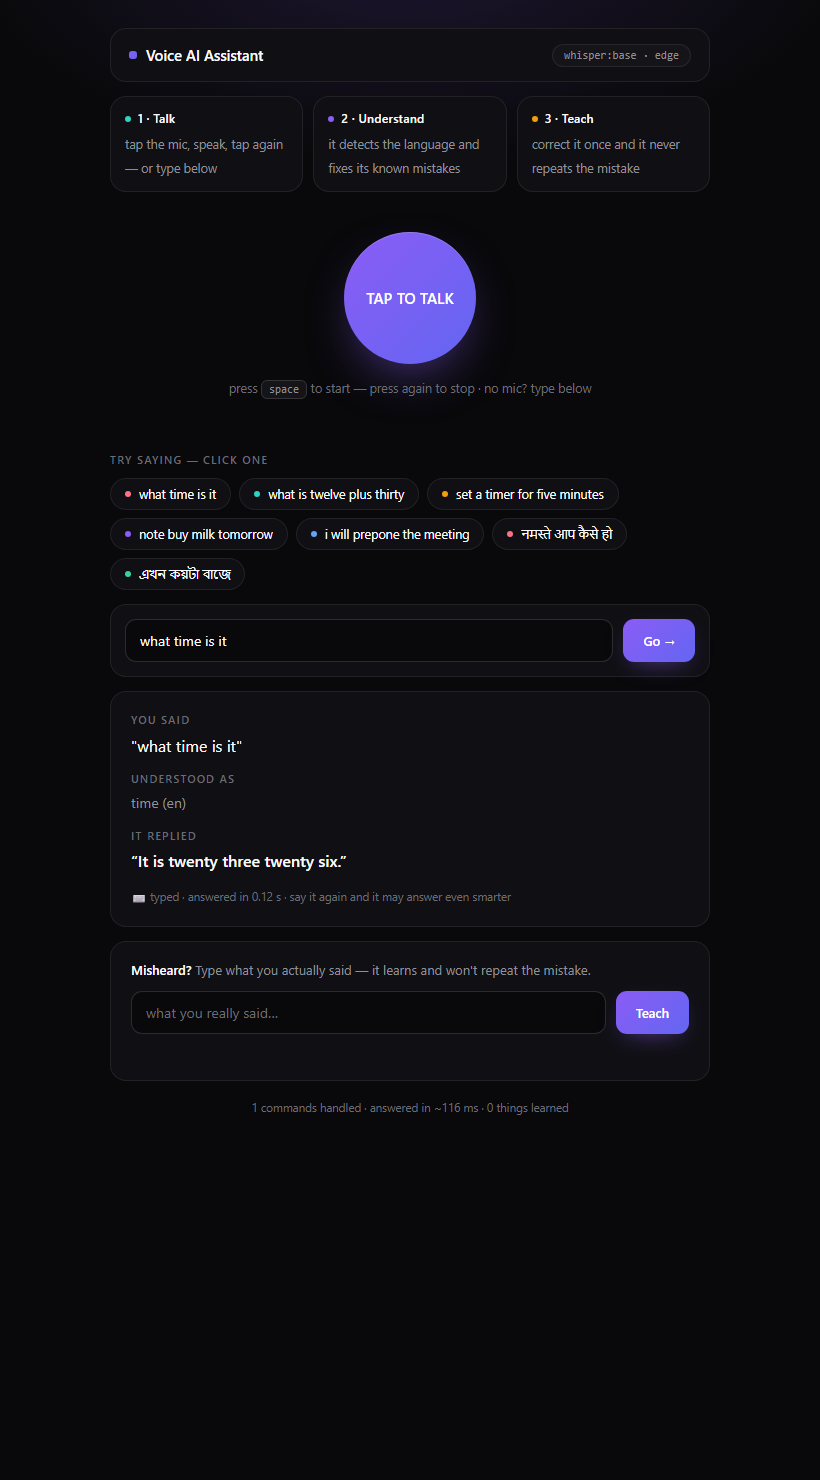
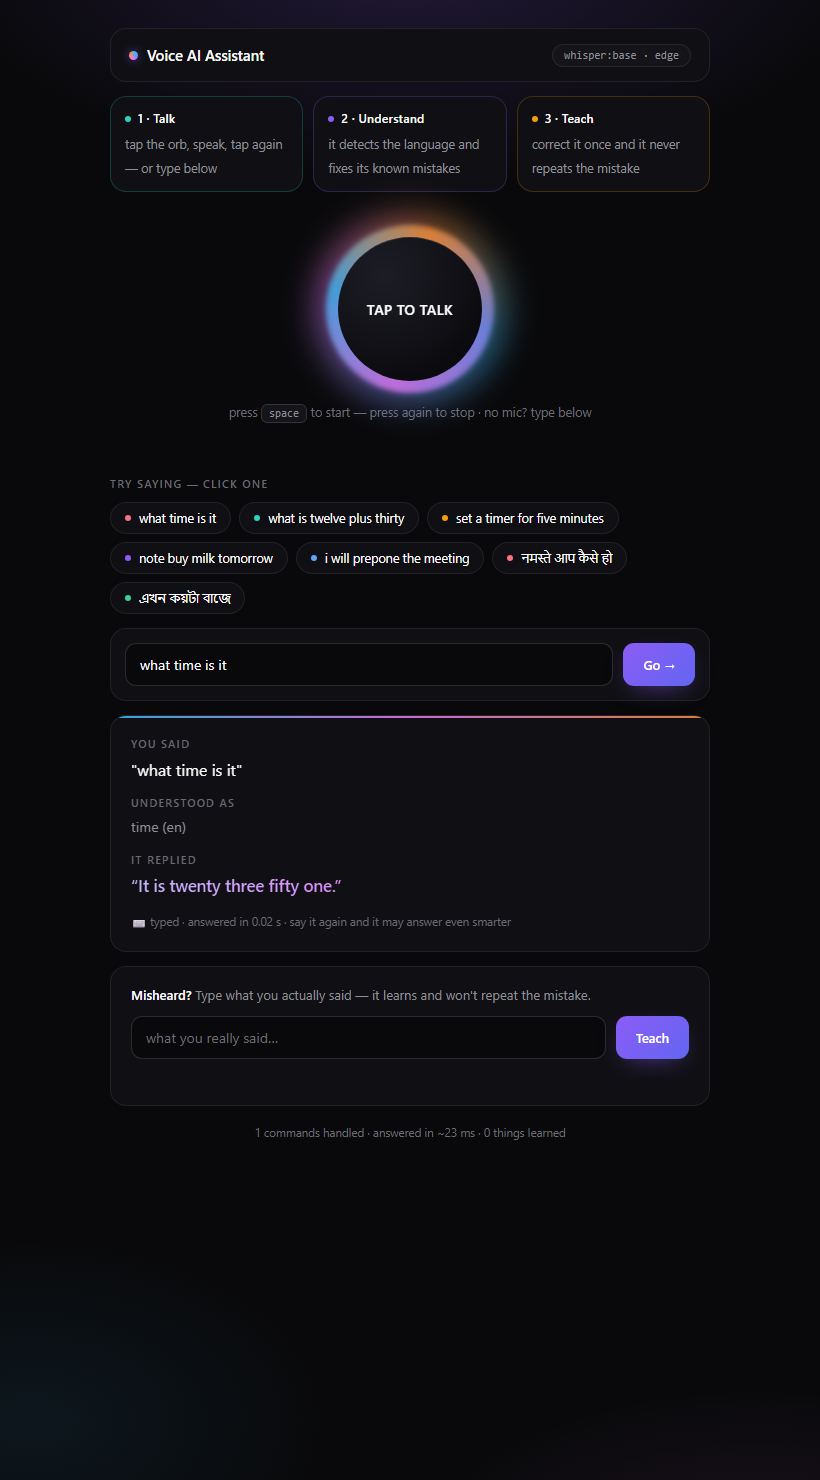
ui: Siri-style voice orb + richer ambient color
- mic button wrapped in a rotating multicolor conic-gradient ring
  (sky→indigo→fuchsia→orange) that spins faster and brightens while
  listening, and PULSES WITH LIVE MIC LEVEL (--lvl driven)
- thinking state keeps the orb spinning fast; tricolor gradient bar on
  the result card; gradient reply text; tinted step cards; ambient
  corner glows — still dark-minimal, now colorful
- demo.gif + hero.png re-captured in the new theme; 82 tests green

diff --git a/voice_ai/server/page.py b/voice_ai/server/page.py
@@ -1,11 +1,11 @@
-"""Single-page demo UI — dark modern minimalist theme.
+"""Single-page demo UI — dark modern minimalist with a Siri-style orb.
 
-Design language: deep-zinc canvas with a soft violet glow, hairline
-borders, a single accent color, Inter/system typography and quiet
-micro-interactions (Linear/Vercel school). Every feature stays
-self-explanatory: talk, type, or click an example; the result card says
-plainly what was heard, understood and replied; the teach panel closes
-the learning loop.
+Design language: deep-zinc canvas with ambient color glows, hairline
+cards, and the centerpiece — a mic button wrapped in a rotating
+multicolor conic-gradient ring (sky → indigo → fuchsia → orange) that
+brightens, speeds up and PULSES WITH YOUR VOICE LEVEL while listening,
+like Siri on iPhone. Colorful, but composed: one dark canvas, color
+comes from the orb, chips and gradients.
 
 Audio is captured with AudioContext and encoded to 16 kHz mono PCM WAV
 client-side — the server needs no ffmpeg. (The ScriptProcessorNode is
@@ -21,12 +21,15 @@ PAGE = """<!doctype html>
 :root{--bg:#09090b;--card:#101014;--card2:#141419;--line:rgba(255,255,255,.08);
 --line2:rgba(255,255,255,.14);--ink:#fafafa;--dim:#8f8f98;--dim2:#6b6b74;
 --violet:#8b5cf6;--teal:#2dd4bf;--amber:#f59e0b;--rose:#fb7185;
---emerald:#34d399}
+--emerald:#34d399;--sky:#38bdf8;--indigo:#818cf8;--fuchsia:#e879f9;
+--orange:#fb923c}
 *{box-sizing:border-box}
 ::selection{background:rgba(139,92,246,.35)}
 body{margin:0;color:var(--ink);background:var(--bg);
-background-image:radial-gradient(640px 320px at 50% -60px,
-rgba(139,92,246,.16),transparent 70%);
+background-image:
+ radial-gradient(680px 340px at 50% -60px,rgba(139,92,246,.20),transparent 70%),
+ radial-gradient(520px 300px at 92% 108%,rgba(232,121,249,.10),transparent 70%),
+ radial-gradient(420px 260px at 4% 96%,rgba(56,189,248,.08),transparent 70%);
 font:15px/1.6 Inter,"Segoe UI Variable","Segoe UI",system-ui,sans-serif;
 -webkit-font-smoothing:antialiased;
 display:flex;justify-content:center;min-height:100vh}
@@ -39,8 +42,10 @@ header{display:flex;justify-content:space-between;align-items:center;
 padding:14px 18px}
 header h1{font-size:15px;margin:0;font-weight:600;letter-spacing:-.01em;
 display:flex;align-items:center;gap:9px}
-header h1::before{content:"";width:8px;height:8px;border-radius:3px;
-background:linear-gradient(135deg,var(--violet),#6366f1)}
+header h1::before{content:"";width:9px;height:9px;border-radius:50%;
+background:conic-gradient(from 20deg,var(--sky),var(--indigo),
+var(--fuchsia),var(--orange),var(--sky));
+box-shadow:0 0 10px rgba(139,92,246,.55)}
 #engine{font:11px/1 ui-monospace,Consolas,monospace;color:var(--dim);
 border:1px solid var(--line);border-radius:999px;padding:5px 11px;
 background:var(--card2)}
@@ -48,6 +53,9 @@ background:var(--card2)}
 .steps{display:grid;grid-template-columns:1fr 1fr 1fr;gap:10px}
 @media(max-width:560px){.steps{grid-template-columns:1fr}}
 .step{padding:12px 14px}
+.s1{border-color:rgba(45,212,191,.22)}
+.s2{border-color:rgba(139,92,246,.25)}
+.s3{border-color:rgba(245,158,11,.22)}
 .step b{display:flex;align-items:center;gap:7px;font-size:12px;
 font-weight:600;letter-spacing:.02em;margin-bottom:3px}
 .step b::before{content:"";width:6px;height:6px;border-radius:50%;
@@ -55,21 +63,34 @@ background:var(--dot)}
 .step span{font-size:12.5px;color:var(--dim)}
 .s1{--dot:var(--teal)}.s2{--dot:var(--violet)}.s3{--dot:var(--amber)}
 
-.micwrap{text-align:center;padding:26px 0 6px}
-#rec{width:132px;height:132px;border-radius:50%;border:0;cursor:pointer;
-font-family:inherit;color:#fff;font-weight:600;font-size:14.5px;
-letter-spacing:.02em;
-background:linear-gradient(135deg,#8b5cf6,#6366f1);
-box-shadow:inset 0 1px 0 rgba(255,255,255,.18),
-0 20px 50px -16px rgba(139,92,246,.55);
-transition:transform .18s ease,box-shadow .18s ease}
-#rec:hover{transform:scale(1.03)}
-#rec:active{transform:scale(.98)}
-#rec.on{background:linear-gradient(135deg,#fb7185,#f43f5e);
-animation:ring 1.5s ease-out infinite}
-@keyframes ring{0%{box-shadow:inset 0 1px 0 rgba(255,255,255,.2),
-0 0 0 0 rgba(244,63,94,.45)}100%{box-shadow:inset 0 1px 0
-rgba(255,255,255,.2),0 0 0 22px rgba(244,63,94,0)}}
+.micwrap{text-align:center;padding:24px 0 6px}
+.orb{position:relative;width:158px;height:158px;margin:0 auto;
+transform:scale(calc(1 + var(--lvl,0)*.06));
+transition:transform .09s linear}
+.orb-ring,.orb-ring2{position:absolute;border-radius:50%;
+pointer-events:none}
+.orb-ring{inset:-16px;
+background:conic-gradient(from 0deg,var(--sky),var(--indigo),
+var(--fuchsia),var(--orange),var(--sky));
+filter:blur(16px);opacity:.5;
+animation:spin 9s linear infinite}
+.orb-ring2{inset:-5px;
+background:conic-gradient(from 180deg,var(--fuchsia),var(--sky),
+var(--orange),var(--indigo),var(--fuchsia));
+filter:blur(2.5px);opacity:.75;
+animation:spin 6s linear infinite reverse}
+.orb.on .orb-ring,.orb.busy .orb-ring{opacity:.95;
+animation-duration:2.6s}
+.orb.on .orb-ring2,.orb.busy .orb-ring2{opacity:1;
+animation-duration:1.8s}
+@keyframes spin{to{transform:rotate(360deg)}}
+#rec{position:absolute;inset:7px;border-radius:50%;border:0;
+cursor:pointer;font-family:inherit;color:#fff;font-weight:600;
+font-size:14px;letter-spacing:.03em;
+background:radial-gradient(circle at 32% 26%,#1d1d26,#0b0b0f 74%);
+box-shadow:inset 0 1px 0 rgba(255,255,255,.09);
+transition:transform .12s ease}
+#rec:active{transform:scale(.97)}
 #hint{color:var(--dim2);font-size:12.5px;margin-top:14px}
 #hint kbd{font:11px ui-monospace,Consolas,monospace;color:var(--dim);
 background:var(--card2);border:1px solid var(--line2);border-radius:6px;
@@ -83,12 +104,16 @@ text-transform:uppercase;color:var(--dim2);margin:0 0 9px}
 .chip{display:inline-flex;align-items:center;gap:8px;
 border:1px solid var(--line);border-radius:999px;padding:7px 14px;
 font-family:inherit;font-size:12.5px;color:var(--ink);cursor:pointer;
-background:var(--card);transition:border-color .15s ease,transform .15s ease}
+background:var(--card);transition:transform .15s ease,border-color .15s ease}
 .chip::before{content:"";width:6px;height:6px;border-radius:50%;
 background:var(--dot)}
-.chip:hover{border-color:rgba(139,92,246,.5);transform:translateY(-1px)}
-.c1{--dot:var(--rose)}.c2{--dot:var(--teal)}.c3{--dot:var(--amber)}
-.c4{--dot:var(--violet)}.c5{--dot:#60a5fa}.c6{--dot:var(--emerald)}
+.chip:hover{transform:translateY(-1px)}
+.c1{--dot:var(--rose)}.c1:hover{border-color:rgba(251,113,133,.55)}
+.c2{--dot:var(--teal)}.c2:hover{border-color:rgba(45,212,191,.55)}
+.c3{--dot:var(--amber)}.c3:hover{border-color:rgba(245,158,11,.55)}
+.c4{--dot:var(--violet)}.c4:hover{border-color:rgba(139,92,246,.55)}
+.c5{--dot:#60a5fa}.c5:hover{border-color:rgba(96,165,250,.55)}
+.c6{--dot:var(--emerald)}.c6:hover{border-color:rgba(52,211,153,.55)}
 
 .typerow{display:flex;gap:10px;padding:14px}
 #typetext{flex:1;font-family:inherit;font-size:14px;color:var(--ink);
@@ -106,7 +131,10 @@ transition:filter .15s ease,transform .15s ease}
 #typego:hover{filter:brightness(1.1)}
 #typego:active{transform:translateY(1px)}
 
-.result{padding:20px;display:none}
+.result{padding:20px;display:none;position:relative;overflow:hidden}
+.result::before{content:"";position:absolute;top:0;left:0;right:0;height:2px;
+background:linear-gradient(90deg,var(--sky),var(--fuchsia),var(--orange));
+opacity:.85}
 .result .row{margin:13px 0}
 .result .row:first-child{margin-top:0}
 .result .who{font-size:10.5px;font-weight:600;letter-spacing:.14em;
@@ -114,7 +142,10 @@ text-transform:uppercase;color:var(--dim2);display:block;margin-bottom:4px}
 .result .heard{font-size:16px}
 .result .fixed{font-size:14px;color:var(--emerald);font-weight:500}
 .result #intent{font-size:14px;color:var(--dim)}
-.result .reply{font-size:16px;font-weight:500}
+.result .reply{font-size:16.5px;font-weight:600;
+background:linear-gradient(90deg,#c4b5fd,#e879f9 55%,#fb923c);
+-webkit-background-clip:text;background-clip:text;
+-webkit-text-fill-color:transparent}
 .result .meta{font-size:11.5px;color:var(--dim2);margin-top:14px}
 #note{display:none;color:var(--amber);font-size:12.5px;margin-top:12px;
 padding:10px 13px;border:1px solid rgba(245,158,11,.25);
@@ -157,7 +188,7 @@ font-variant-numeric:tabular-nums}
 
   <div class="steps">
     <div class="card step s1"><b>1 · Talk</b>
-      <span>tap the mic, speak, tap again — or type below</span></div>
+      <span>tap the orb, speak, tap again — or type below</span></div>
     <div class="card step s2"><b>2 · Understand</b>
       <span>it detects the language and fixes its known mistakes</span></div>
     <div class="card step s3"><b>3 · Teach</b>
@@ -165,7 +196,11 @@ font-variant-numeric:tabular-nums}
   </div>
 
   <div class="micwrap">
-    <button id="rec" aria-label="start recording">TAP TO TALK</button>
+    <div class="orb" id="orb">
+      <div class="orb-ring"></div>
+      <div class="orb-ring2"></div>
+      <button id="rec" aria-label="start recording">TAP TO TALK</button>
+    </div>
     <div id="hint">press <kbd>space</kbd> to start — press again to stop
       · no mic? type below</div>
   </div>
@@ -223,8 +258,9 @@ const $=id=>document.getElementById(id);
 const esc=s=>String(s??"").replace(/[&<>"']/g,c=>({"&":"&amp;","<":"&lt;",
 ">":"&gt;",'"':"&quot;","'":"&#39;"}[c]));
 const DEMO=new URLSearchParams(location.search); // ?demo=&teach= for captures
+const orb=$("orb");
 let last=null, recState="idle", stream=null, ctx=null, processor=null,
-    chunks=[], tick=null, audio=null;
+    chunks=[], tick=null, audio=null, lvl=0;
 
 // ---- footer stats -------------------------------------------------- //
 async function poll(){
@@ -270,13 +306,19 @@ async function toggle(){
     processor=ctx.createScriptProcessor(4096,1,1);   // kept referenced!
     chunks=[];
     processor.onaudioprocess=e=>{
-      if(recState==="recording")
-        chunks.push(new Float32Array(e.inputBuffer.getChannelData(0)));
+      if(recState!=="recording")return;
+      const d=e.inputBuffer.getChannelData(0);
+      chunks.push(new Float32Array(d));
+      let s=0;for(let i=0;i<d.length;i+=8)s+=d[i]*d[i];   // voice level
+      const r=Math.sqrt(s/(d.length/8));
+      lvl=Math.min(1,lvl*0.55+r*2.4);                     // smooth rise
+      orb.style.setProperty("--lvl",lvl.toFixed(3));
     };
     src.connect(processor);processor.connect(ctx.destination);
     recState="recording";
-    $("rec").classList.add("on");$("rec").textContent="● LISTENING — TAP TO STOP";
-    $("hint").textContent="speak now — tap the button when done";
+    orb.classList.add("on");
+    $("rec").textContent="● SPEAK NOW";
+    $("hint").textContent="the orb listens with you — tap it when done";
     $("status").className="";$("status").textContent="";
     const t0=Date.now();tick=setInterval(()=>{
       $("status").textContent="recording… "+((Date.now()-t0)/1000).toFixed(1)+" s";
@@ -285,7 +327,9 @@ async function toggle(){
 }
 async function stop(){
   recState="idle";clearInterval(tick);
-  $("rec").classList.remove("on");$("rec").textContent="TAP TO TALK";
+  orb.classList.remove("on");orb.classList.add("busy");
+  orb.style.setProperty("--lvl",0);
+  $("rec").textContent="THINKING…";
   $("hint").innerHTML='press <kbd>space</kbd> to start — press again to stop · no mic? type below';
   $("status").textContent="thinking…";
   try{stream&&stream.getTracks().forEach(t=>t.stop())}catch(e){}
@@ -293,7 +337,9 @@ async function stop(){
   try{processor&&processor.disconnect()}catch(e){}
   try{ctx&&ctx.close()}catch(e){}
   const total=chunks.reduce((a,c)=>a+c.length,0);
-  if(total<8000){err("too short — speak a full sentence, then stop");return}
+  if(total<8000){orb.classList.remove("busy");
+    $("rec").textContent="TAP TO TALK";
+    err("too short — speak a full sentence, then stop");return}
   const all=new Float32Array(total);let o=0;
   for(const c of chunks){all.set(c,o);o+=c.length}
   try{
@@ -301,6 +347,7 @@ async function stop(){
       {method:"POST",headers:{"Content-Type":"audio/wav"},body:wav16k(all,rate)});
     show(await r.json());
   }catch(e){err("server unreachable")}
+  orb.classList.remove("busy");$("rec").textContent="TAP TO TALK";
 }
 function wav16k(buf,from){
   const ratio=from/16000,n=Math.floor(buf.length/ratio);
@@ -327,6 +374,7 @@ async function sendText(){
   const text=$("typetext").value.trim();
   if(!text){err("type a command first — or click an example above");return}
   $("status").className="";$("status").textContent="thinking…";
+  orb.classList.add("busy");
   try{
     const r=await fetch("/text",{method:"POST",
       headers:{"Content-Type":"application/json"},
@@ -334,6 +382,7 @@ async function sendText(){
                            audio:DEMO.get("audio","1")})});
     show(await r.json());
   }catch(e){err("server unreachable")}
+  orb.classList.remove("busy");
 }
 
 // ---- show any result ------------------------------------------------ //
